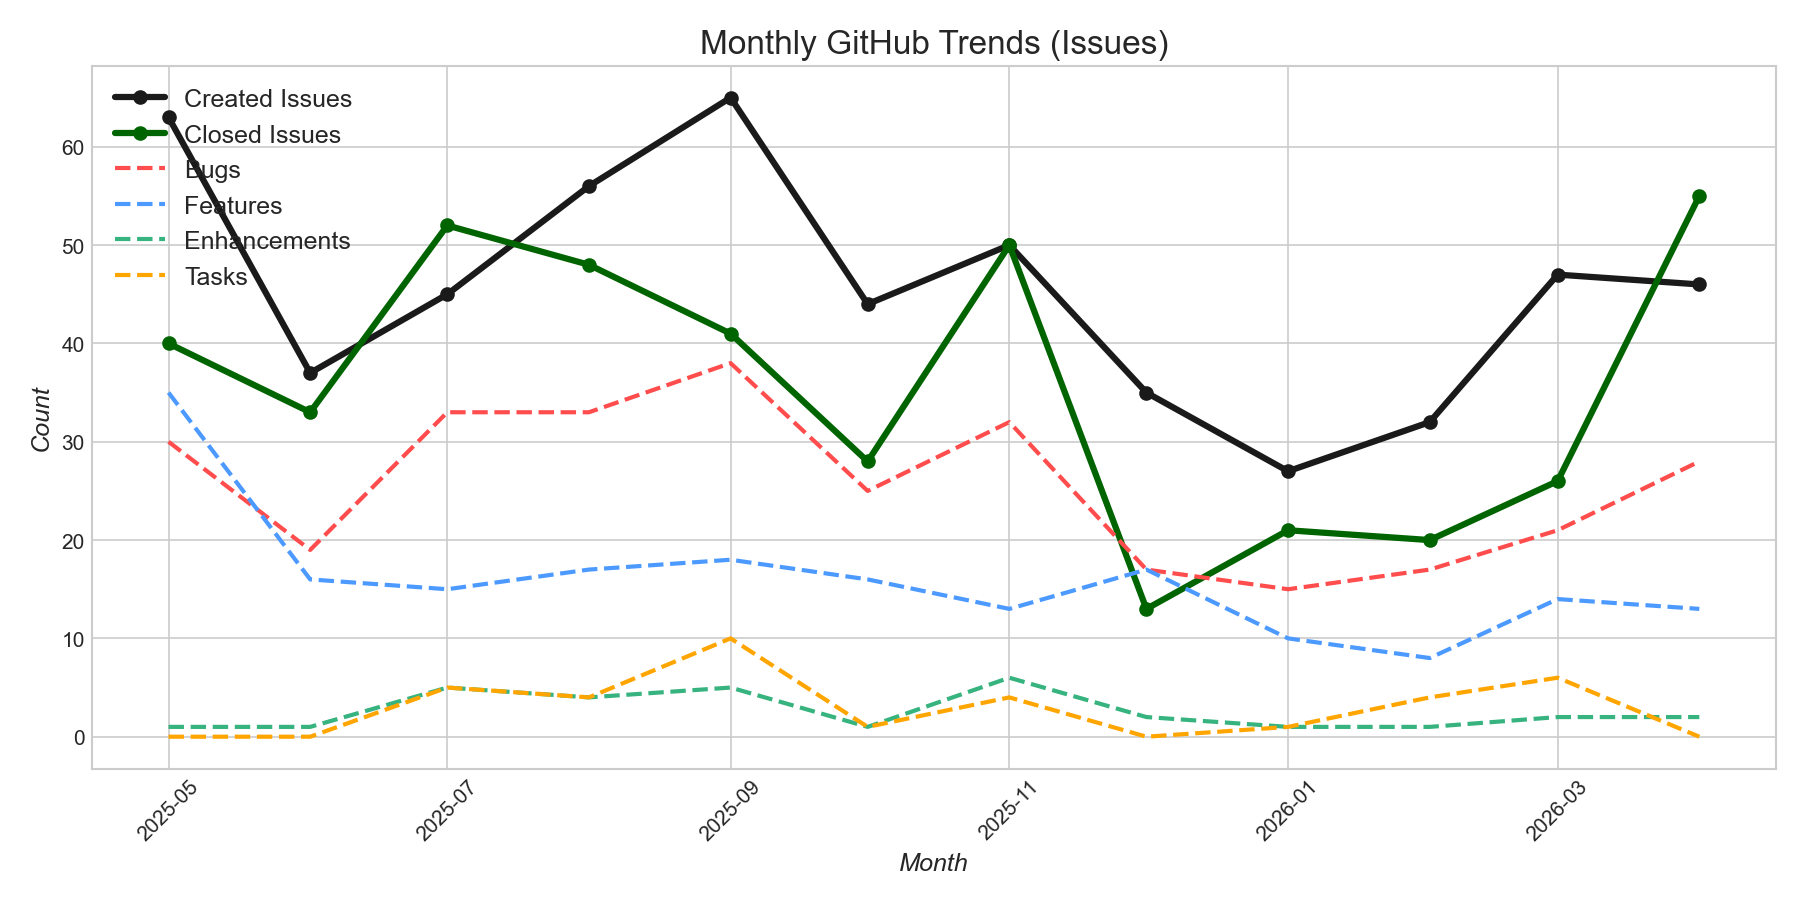
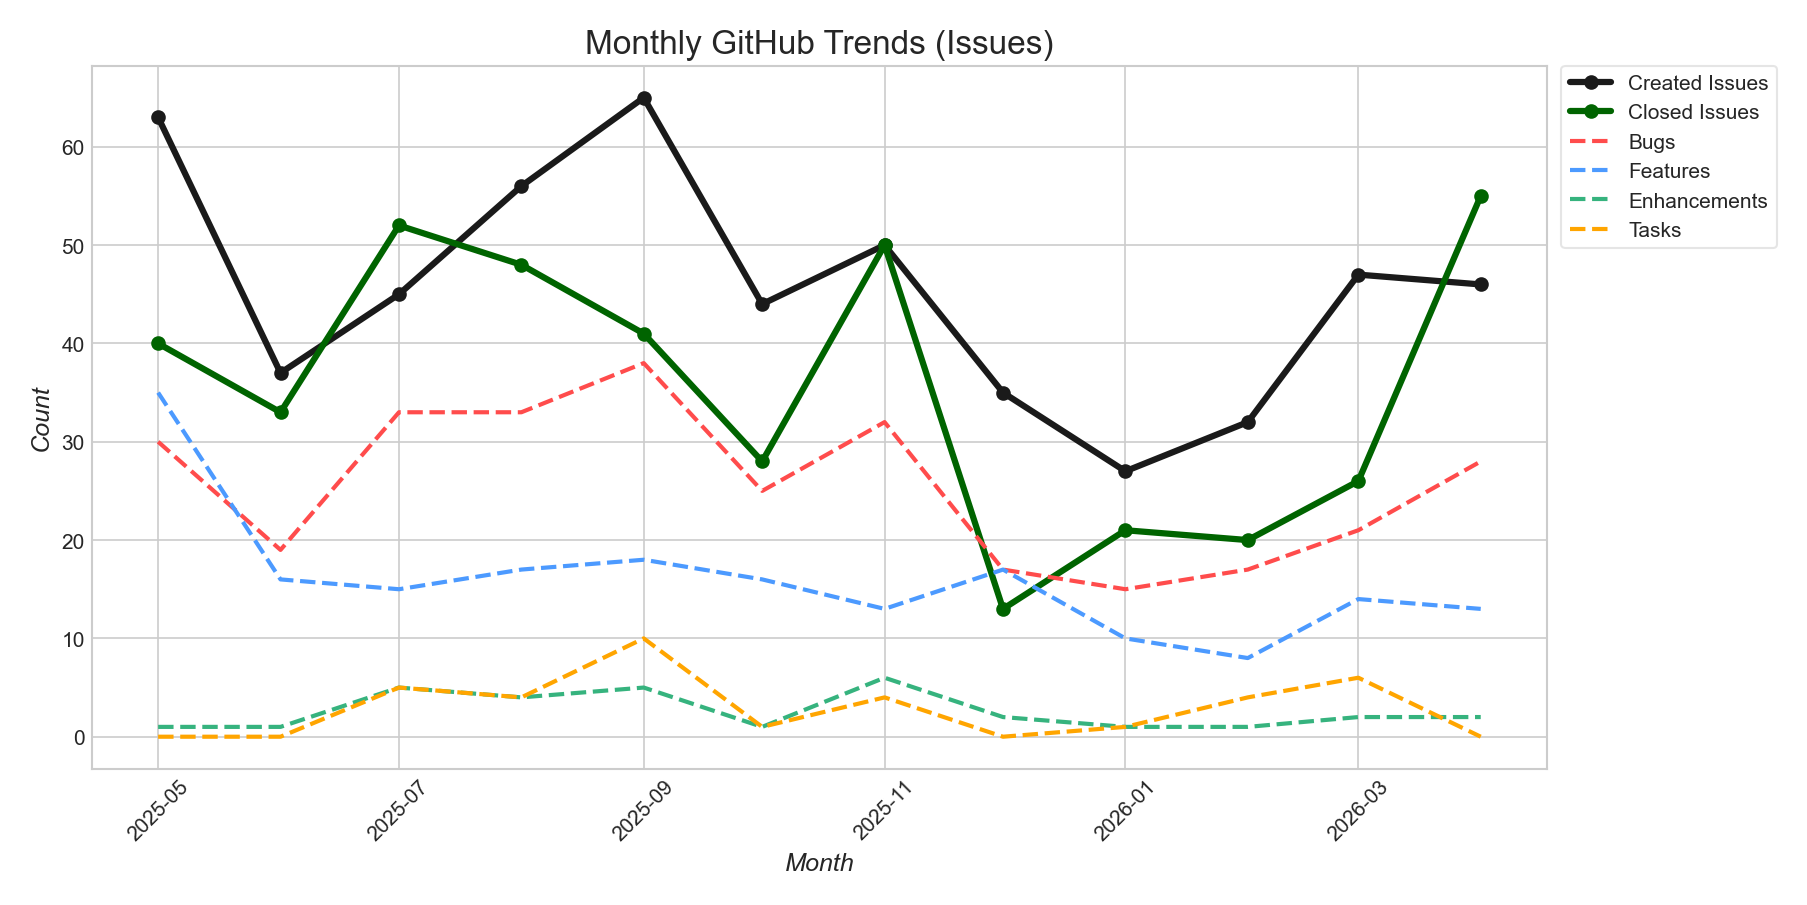
Move monthly trend legend outside plot area
Prevents legend from overlapping the Created/Closed lines.

diff --git a/scripts/util/plot.py b/scripts/util/plot.py
@@ -348,7 +348,14 @@ def plot_monthly_summary_basic(path, table, output_path, start_date=None):
         ax = plt.gca()
         set_axis_labels(ax, "Month", "Count")
 
-        plt.legend()
+        ax.legend(
+            loc="upper left",
+            bbox_to_anchor=(1.01, 1),
+            borderaxespad=0.,
+            frameon=True,
+            framealpha=0.5,
+            fontsize=10,
+        )
         plt.tight_layout()
 
         plt.savefig(output_path)
